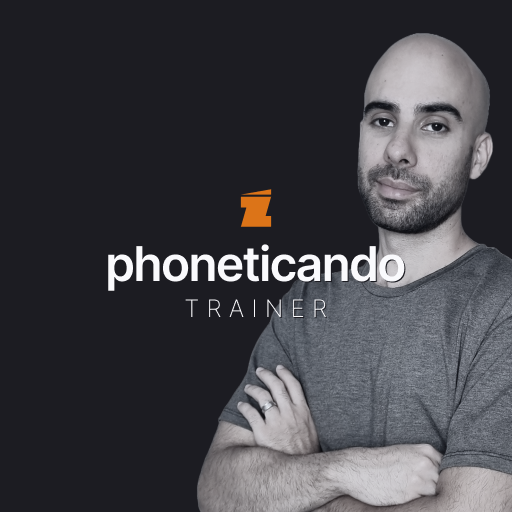
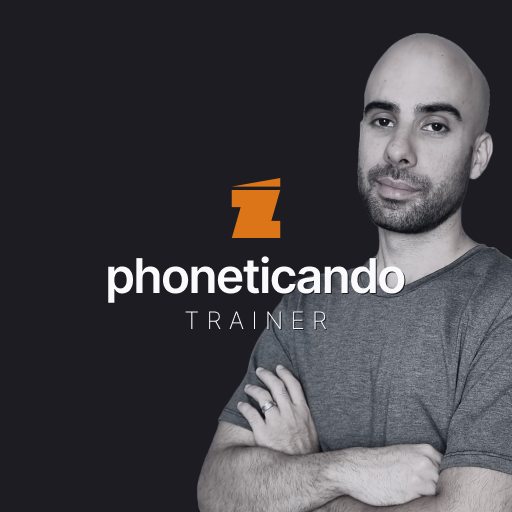
changes

Changed region(s): [[0.1875, 0.3438, 0.8125, 0.6562]]

diff --git a/styles/highlight.css b/styles/highlight.css
@@ -1,10 +1,16 @@
 .ze-highlight {
+    font-weight: 200;
+    font-size: 16px;
+    font-family: var(--font-inter-tight);
     background-color: var(--cerulean600);
-    font-weight: 800;
-    padding-left: 8px;
-    padding-top: 4px;
-    padding-bottom: 4px;
+    color: var(--graycool0);
+    text-shadow: 0.5px 0.5px var(--graycool1000);
+    font-style: italic;
     border-radius: 4px;
+    padding: 2px 4px 2px 4px;
+    text-transform: capitalize;
+    letter-spacing: normal;
+    box-shadow: 1px 1px 0px var(--graycool1000);
 }
 
 .cerulean-highlight {

diff --git a/aulas.html b/aulas.html
@@ -54,7 +54,7 @@
     <section class="section-container-padding dark-graycool-background aulas-picture-container">
         <div class="poster-container">
             <div class="poster-content">
-                <component-page-title>aulas com <span class="ze-highlight">zé</span></component-page-title>
+                <component-page-title>aulas com <span class="ze-highlight">zé antonio</span></component-page-title>
             </div>
         </div>
         <img src="images/pictures/aulas-pic.png" alt="" class="aulas-picture-background">

diff --git a/styles/home.css b/styles/home.css
@@ -57,11 +57,15 @@
 }
 
 .info-name-highlight {
-    font-weight: 600;
+    font-weight: 200;
     font-size: 16px;
     font-family: var(--font-inter-tight);
-    color: var(--cerulean600);
+    background-color: var(--cerulean600);
+    color: var(--graycool0);
+    text-shadow: 0.5px 0.5px var(--graycool1000);
     font-style: italic;
+    border-radius: 4px;
+    padding: 2px 4px 2px 4px;
 }
 
 .info-text {

diff --git a/styles/picture.css b/styles/picture.css
@@ -26,7 +26,7 @@
 .aulas-picture-background {
     position: absolute;
     top: 0;
-    left: 8rem;
+    left: 12rem;
     width: 100%;
     height: 100%;
     object-fit: cover;
